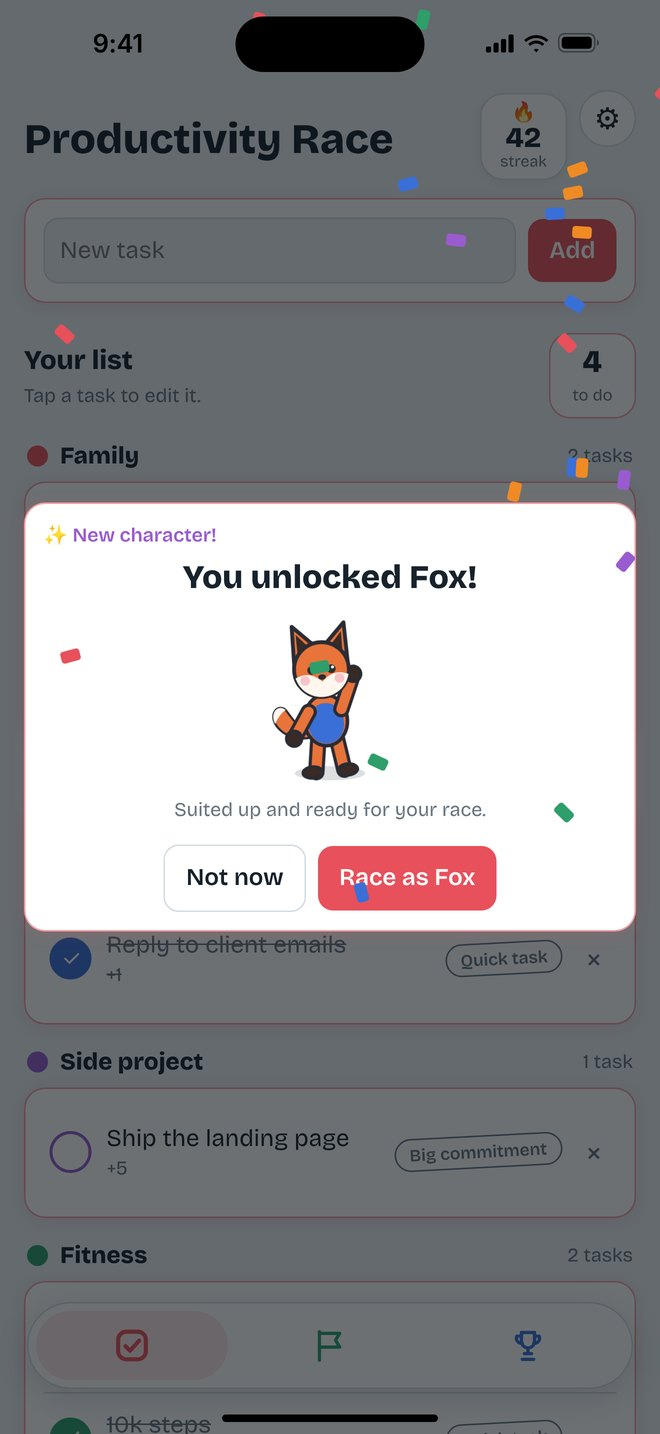
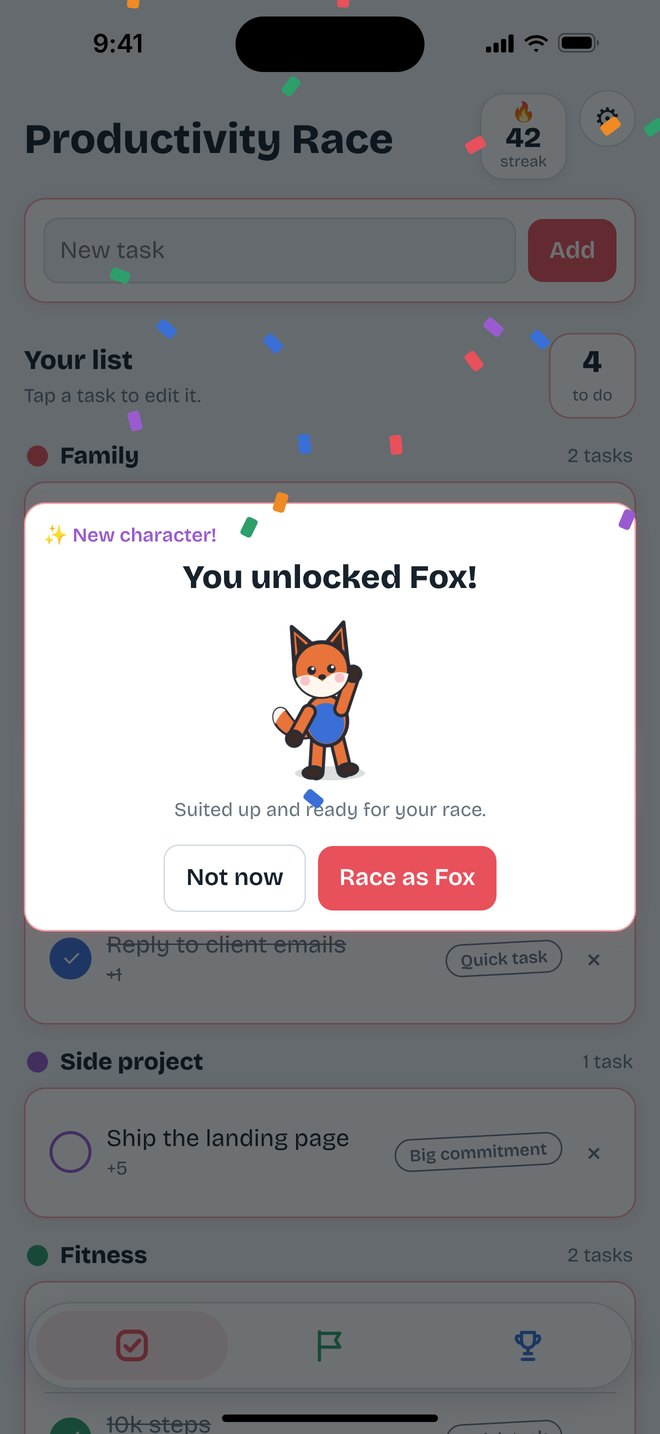
Grand Prix naming, refreshed screenshots
Claude-Session: https://claude.ai/code/session_01WWC529LcoHH9swRzKnBf4g

diff --git a/index.html b/index.html
@@ -21,7 +21,7 @@
       <p class="lead">Sort tasks into categories like Work, Fitness or Family. Every task you tick off moves that category forward, and the one furthest ahead wins the week.</p>
       <span class="badge">Coming soon to the App Store</span>
     </div>
-    <div class="phone"><img src="/img/05-race-f1.jpg" alt="The F1 Grand Prix race view, with five categories as cars on a harbour circuit" width="660" height="1434"></div>
+    <div class="phone"><img src="/img/05-race-grandprix.jpg" alt="The Grand Prix race view, with five categories as cars on a harbour circuit" width="660" height="1434"></div>
   </section>
 
   <section>
@@ -39,7 +39,7 @@
   <section>
     <h2>What's inside</h2>
     <div class="feat">
-      <div><b>Eleven ways to race</b><span>A running track, F1, football, swimming, rowing, basketball, skiing, a mine-cart dash and more. New races unlock as your streak grows.</span></div>
+      <div><b>Eleven ways to race</b><span>A running track, a Grand Prix, football, swimming, rowing, basketball, skiing, a mine-cart dash and more. New races unlock as your streak grows.</span></div>
       <div><b>Pick your racer</b><span>A cast of animals, then your own customisable human, from race kit to a sharp suit or a clown costume.</span></div>
       <div><b>A proper league table</b><span>A season-long table for every category, with arrows for who's climbing and who's slipping.</span></div>
       <div><b>See how you really did</b><span>Weekly results, your week in numbers, and monthly and yearly breakdowns of where your effort went.</span></div>
